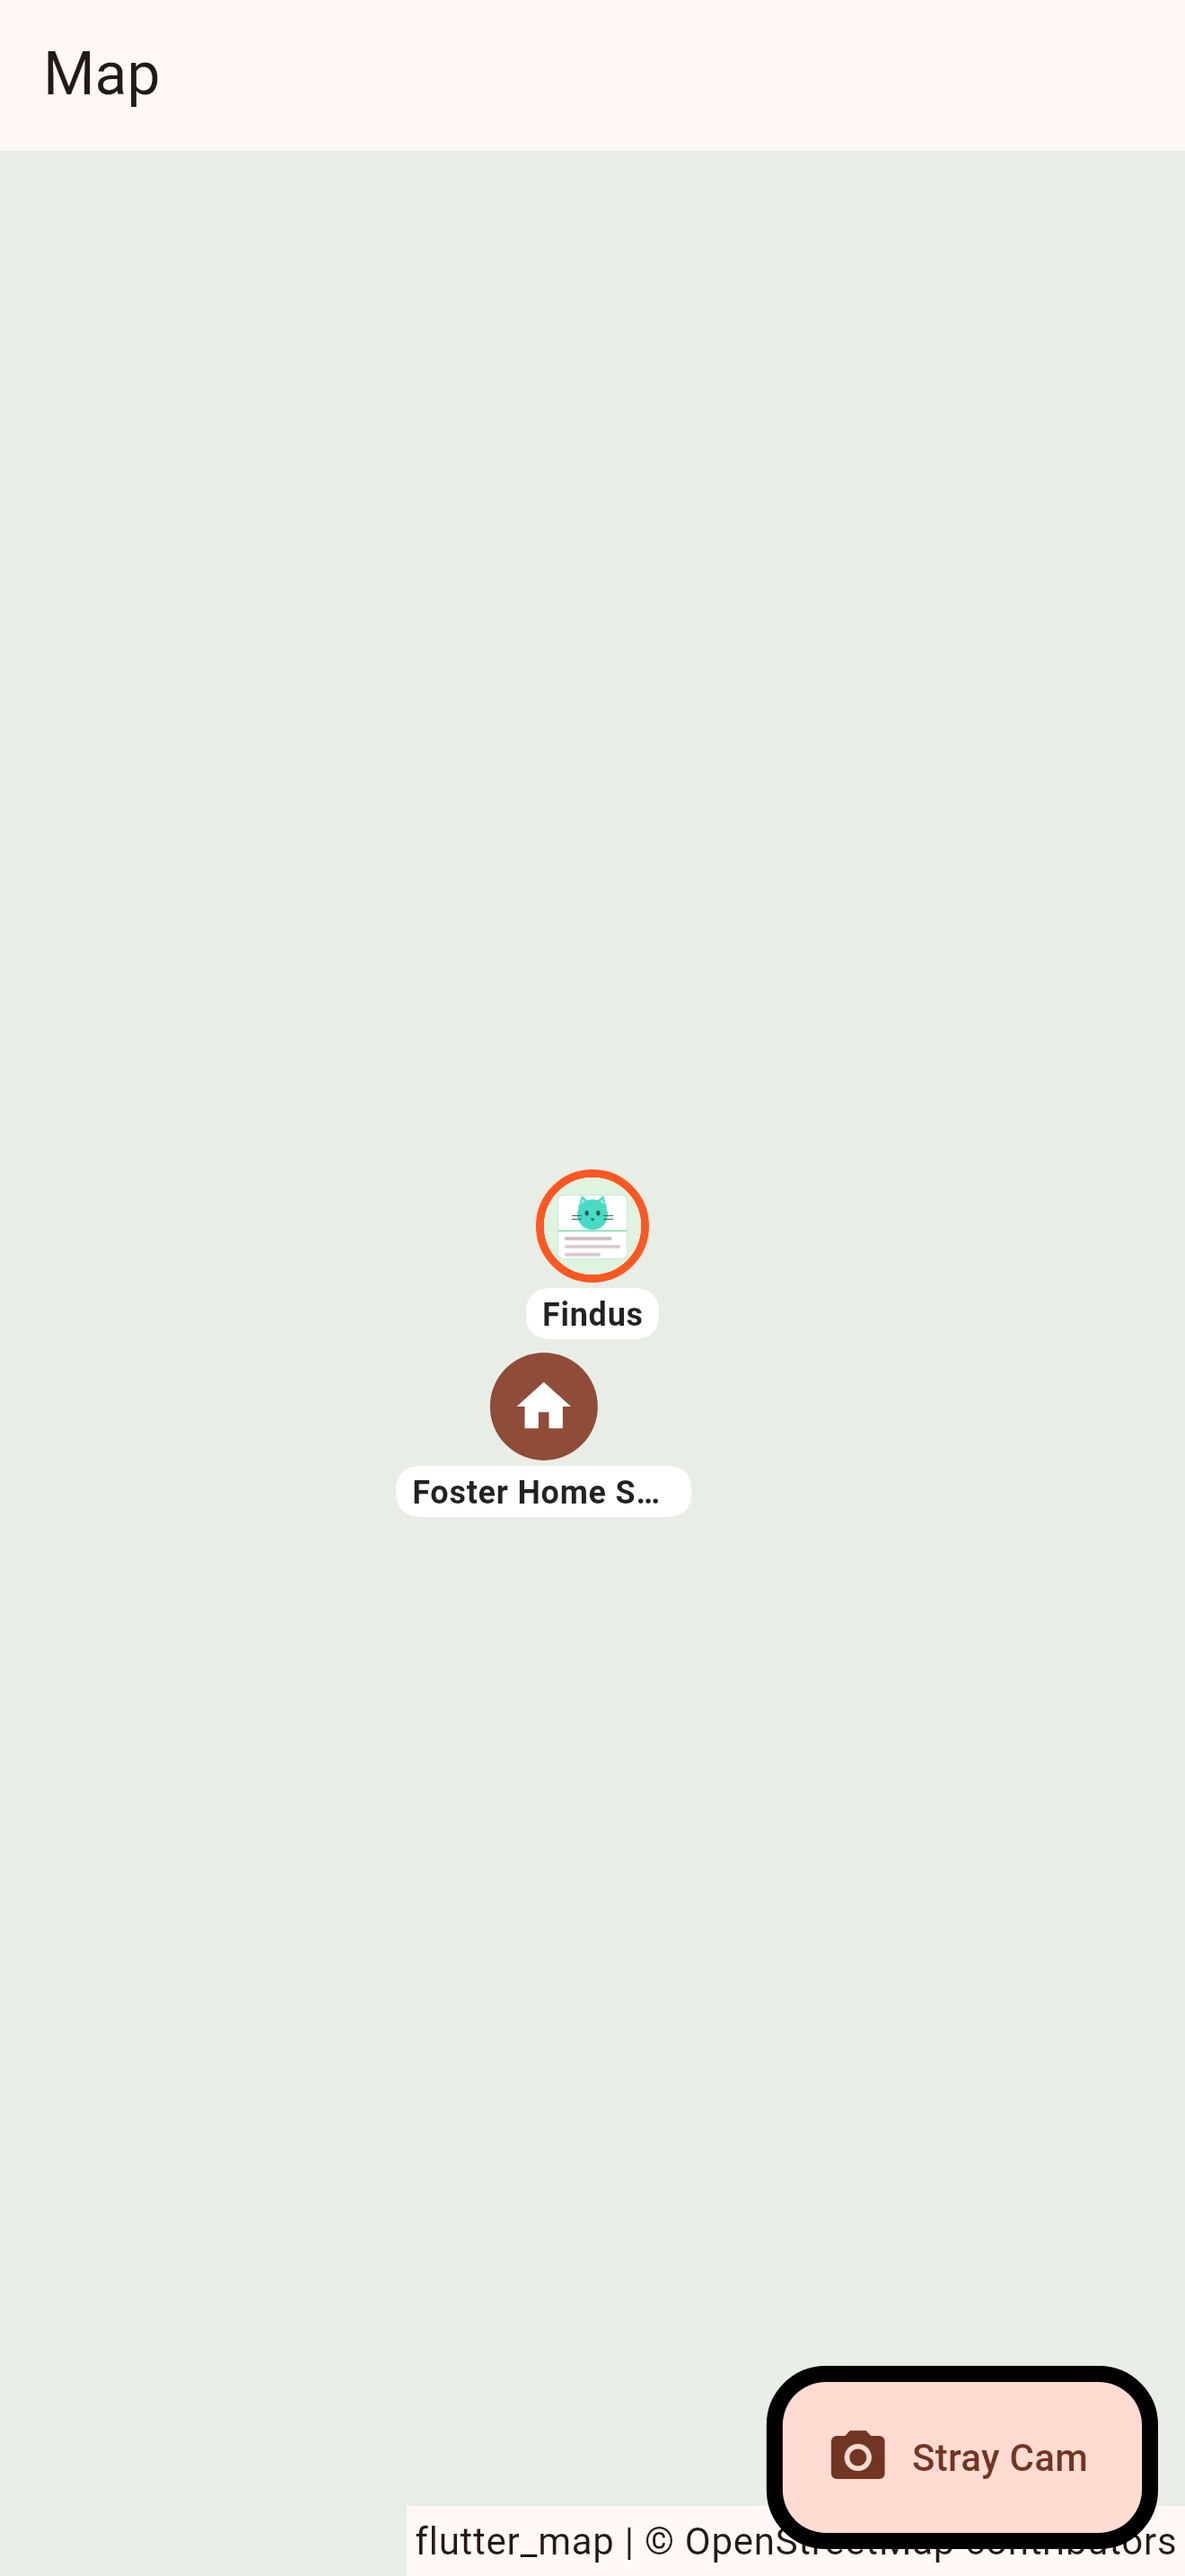
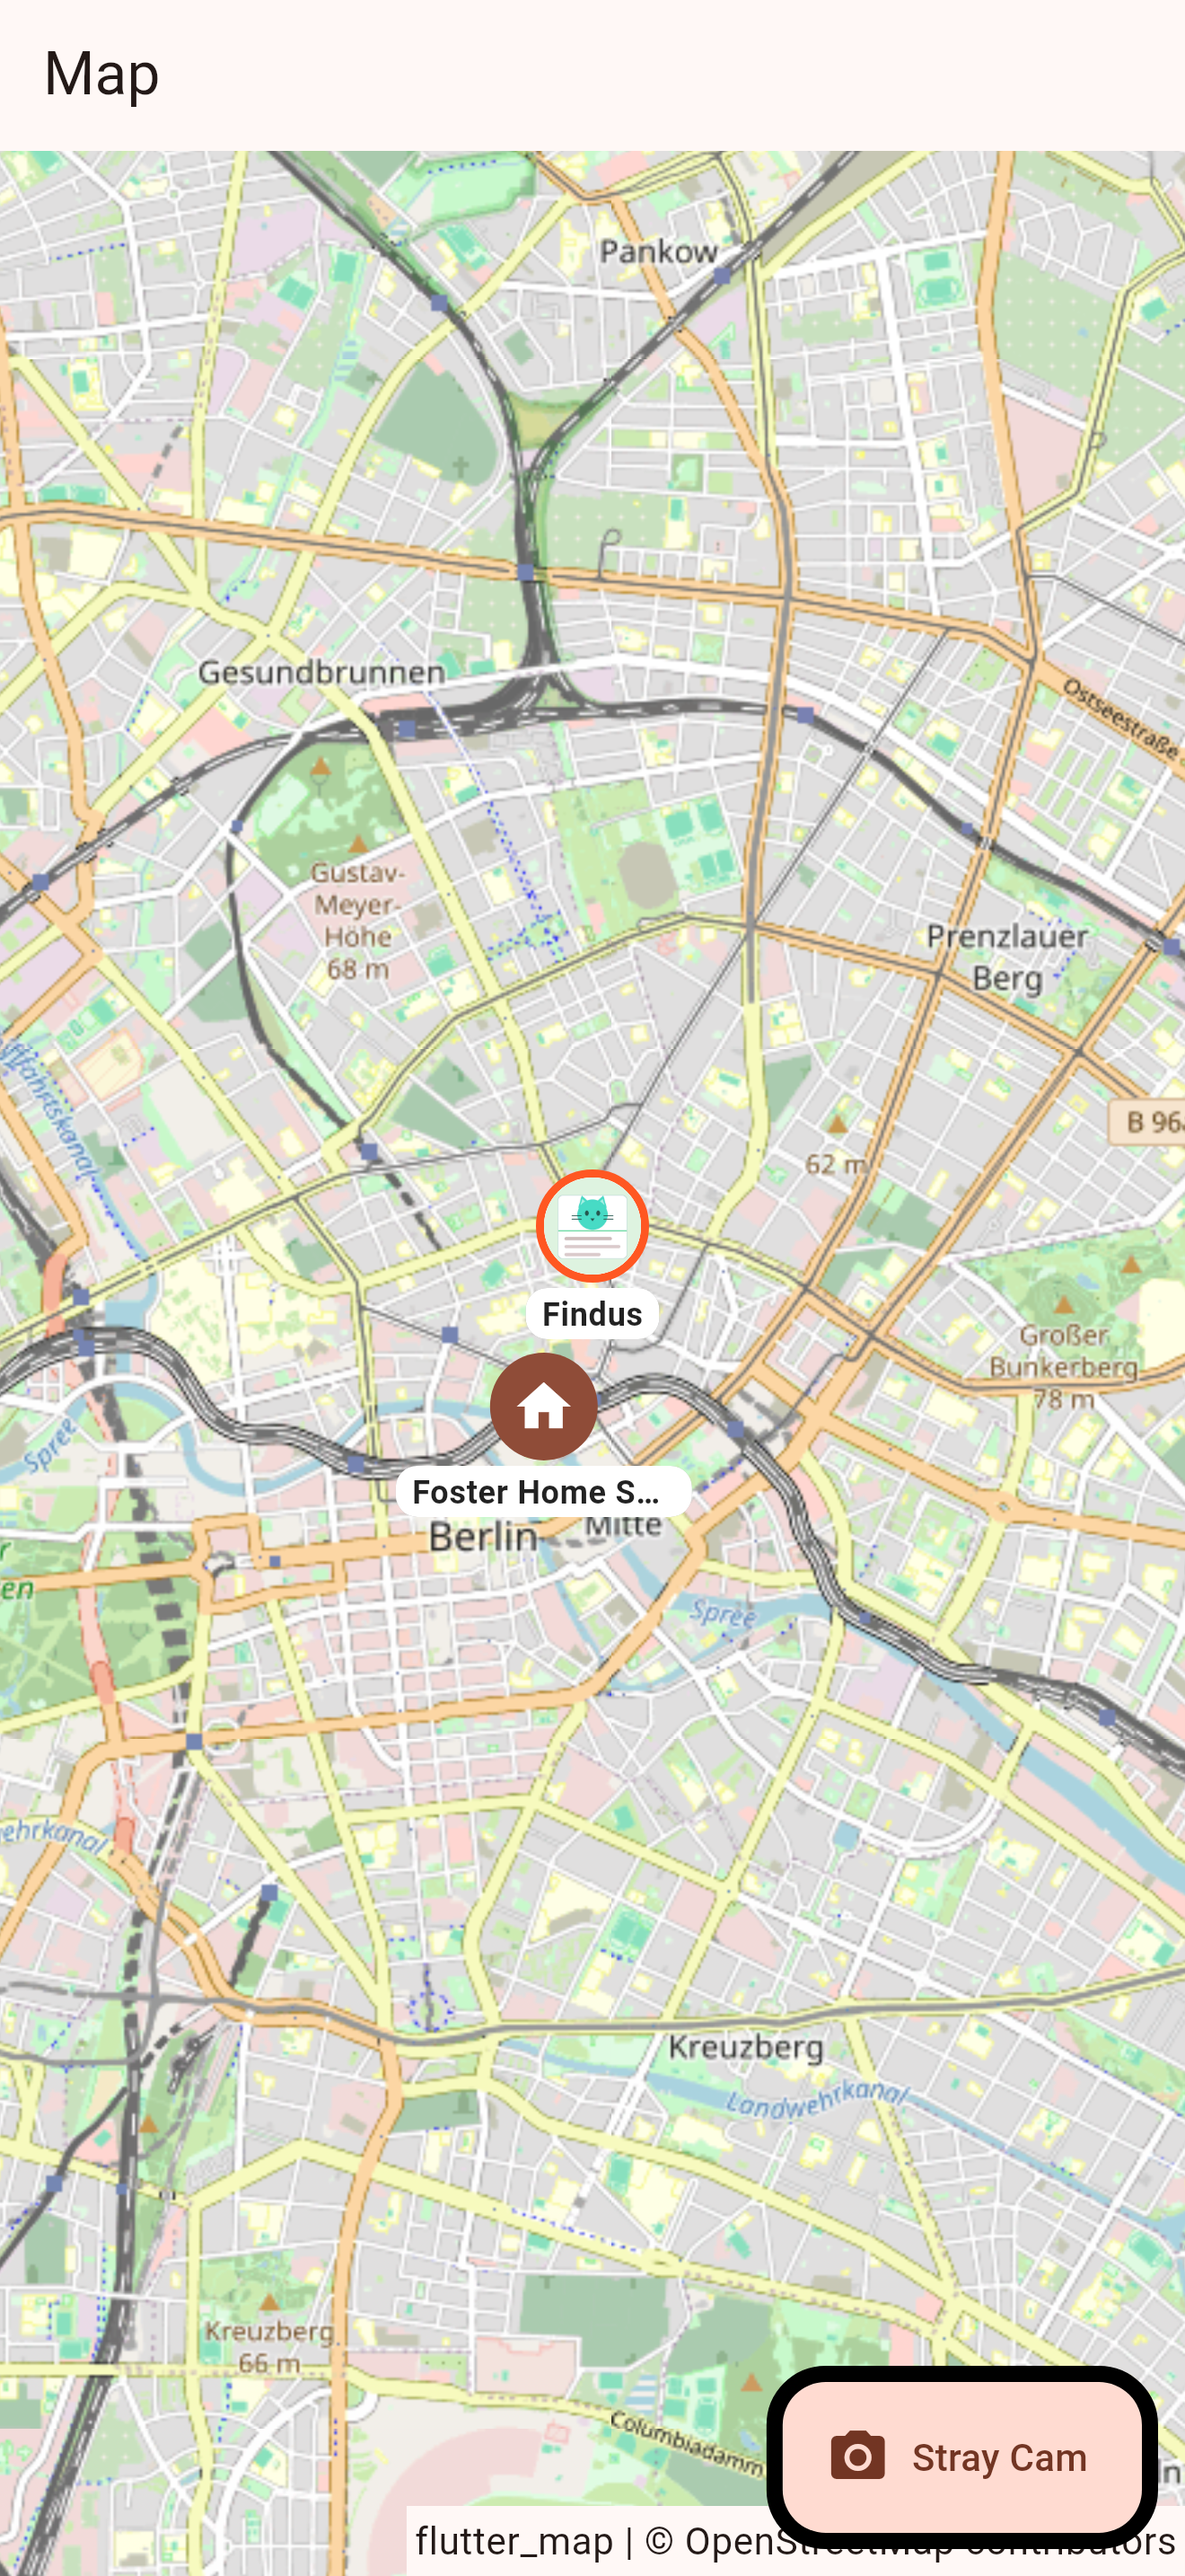
docs: real OSM tiles in map screenshots; tile cache renders via MemoryImage
63 pre-fetched Berlin tiles committed for the screenshot generator;
cached tiles now load as MemoryImage (the only image pipeline that
paints reliably under the widget-test clock — FileImage and the
custom completer stall there; devices were always fine). Tile fade
disabled: cached tiles pop instantly.

diff --git a/test/screenshots/screenshots_test.dart b/test/screenshots/screenshots_test.dart
@@ -15,6 +15,7 @@ import 'package:catlog/src/screens/card_screen.dart';
 import 'package:catlog/src/screens/cat_detail_screen.dart';
 import 'package:catlog/src/screens/clowder_detail_screen.dart';
 import 'package:catlog/src/screens/clowder_list_screen.dart';
+import 'package:catlog/src/map/cached_tiles.dart';
 import 'package:catlog/src/screens/map_screen.dart';
 import 'package:catlog/src/screens/timeline_screen.dart';
 import 'package:flutter/material.dart';
@@ -22,7 +23,6 @@ import 'package:flutter/rendering.dart';
 import 'package:flutter/services.dart';
 import 'package:flutter_map/flutter_map.dart';
 import 'package:flutter_test/flutter_test.dart';
-import 'package:image/image.dart' as img;
 
 Future<void> _loadRealFonts() async {
   final root = Platform.environment['FLUTTER_ROOT']!;
@@ -95,14 +95,6 @@ CatalogStore _demoStore() {
   return store;
 }
 
-class _PastelTileProvider extends TileProvider {
-  final File tile;
-  _PastelTileProvider(this.tile);
-  @override
-  ImageProvider getImage(TileCoordinates coordinates, TileLayer options) =>
-      FileImage(tile);
-}
-
 void main() {
   setUpAll(() async {
     useSystemSqlite();
@@ -128,10 +120,12 @@ void main() {
       ),
     ));
     await tester.pump(const Duration(milliseconds: 500));
-    // Real time so Image.memory decoding completes before capture.
-    await tester.runAsync(
-        () => Future<void>.delayed(const Duration(milliseconds: 600)));
-    await tester.pump(const Duration(milliseconds: 500));
+    // Real time so Image.memory decoding and tile loading complete.
+    for (var i = 0; i < 4; i++) {
+      await tester.runAsync(
+          () => Future<void>.delayed(const Duration(milliseconds: 400)));
+      await tester.pump(const Duration(milliseconds: 300));
+    }
     await tester.runAsync(() async {
       final boundary = key.currentContext!.findRenderObject()!
           as RenderRepaintBoundary;
@@ -161,17 +155,12 @@ void main() {
     await shoot(tester,
         TimelineScreen(store: store, entityId: miezi), '05-timeline');
 
-    // Map with a soft placeholder tile (no network in tests).
-    final tileFile =
-        File('${Directory.systemTemp.path}/catlog_tile.png');
-    final tile = img.Image(width: 256, height: 256);
-    img.fill(tile, color: img.ColorRgb8(232, 238, 230));
-    tileFile.writeAsBytesSync(img.encodePng(tile));
-    await shoot(
-        tester,
-        MapScreen(
-            store: store, tileProvider: _PastelTileProvider(tileFile)),
-        '06-map');
+    // Map with REAL pre-downloaded OSM tiles (test/screenshots/tiles,
+    // fetched once by the tile script) — no network in tests.
+    final tiles =
+        DiskCachingTileProvider(Directory('test/screenshots/tiles'));
+    await shoot(tester,
+        MapScreen(store: store, tileProvider: tiles), '06-map');
 
     // Apple App Store sets: 6.9" iPhone (1320×2868 @3x) and 13" iPad
     // (2064×2752 @2x), into docs/screenshots/appstore/.
@@ -184,8 +173,7 @@ void main() {
       '03-cat': CatDetailScreen(store: store, catId: miezi),
       '04-card': CardScreen(store: store, catId: miezi),
       '05-timeline': TimelineScreen(store: store, entityId: miezi),
-      '06-map': MapScreen(
-          store: store, tileProvider: _PastelTileProvider(tileFile)),
+      '06-map': MapScreen(store: store, tileProvider: tiles),
     };
     for (final entry in shots.entries) {
       await shoot(tester, entry.value, 'appstore/iphone-${entry.key}',

diff --git a/lib/src/map/cached_tiles.dart b/lib/src/map/cached_tiles.dart
@@ -22,6 +22,10 @@ class DiskCachingTileProvider extends TileProvider {
     final url = getTileUrl(coordinates, options);
     final file = File(
         '${cacheDir.path}/${coordinates.z}_${coordinates.x}_${coordinates.y}.png');
+    // Cache hits load synchronously as MemoryImage — tiles are tiny,
+    // and this is the one image pipeline that renders reliably both on
+    // devices and under the widget-test clock (screenshot generator).
+    if (file.existsSync()) return MemoryImage(file.readAsBytesSync());
     return _CachedTileImage(url, file);
   }
 }

diff --git a/lib/src/screens/map_screen.dart b/lib/src/screens/map_screen.dart
@@ -166,6 +166,9 @@ class _MapScreenState extends State<MapScreen> {
             urlTemplate: 'https://tile.openstreetmap.org/{z}/{x}/{y}.png',
             userAgentPackageName: 'io.github.paxel.catlog',
             tileProvider: _tiles,
+            // Cached tiles pop in instantly; the fade animation only
+            // delays them (and never finishes under the test clock).
+            tileDisplay: const TileDisplay.instantaneous(),
           ),
           MarkerLayer(markers: [
             for (final (clowder, point) in clowders)
